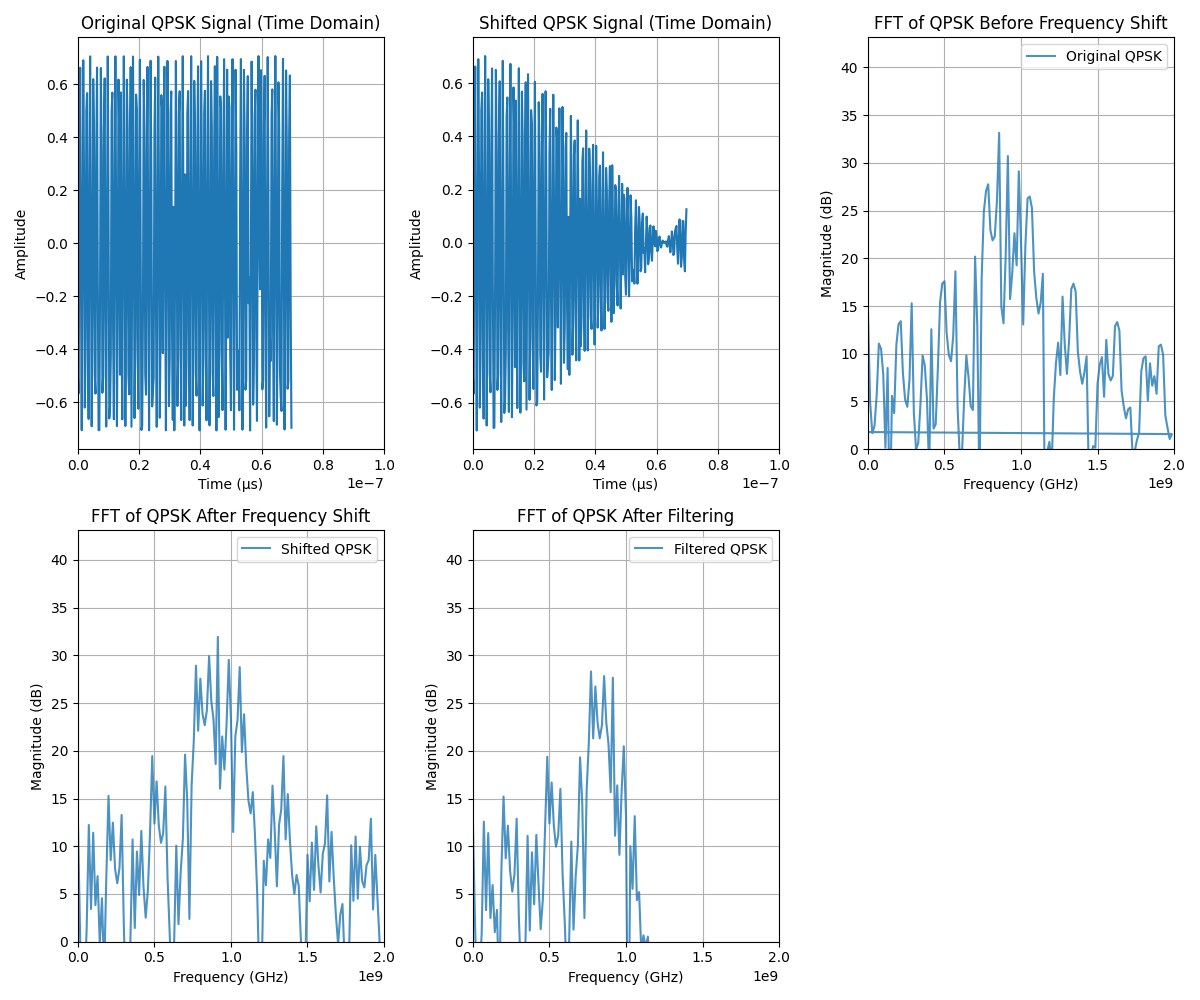
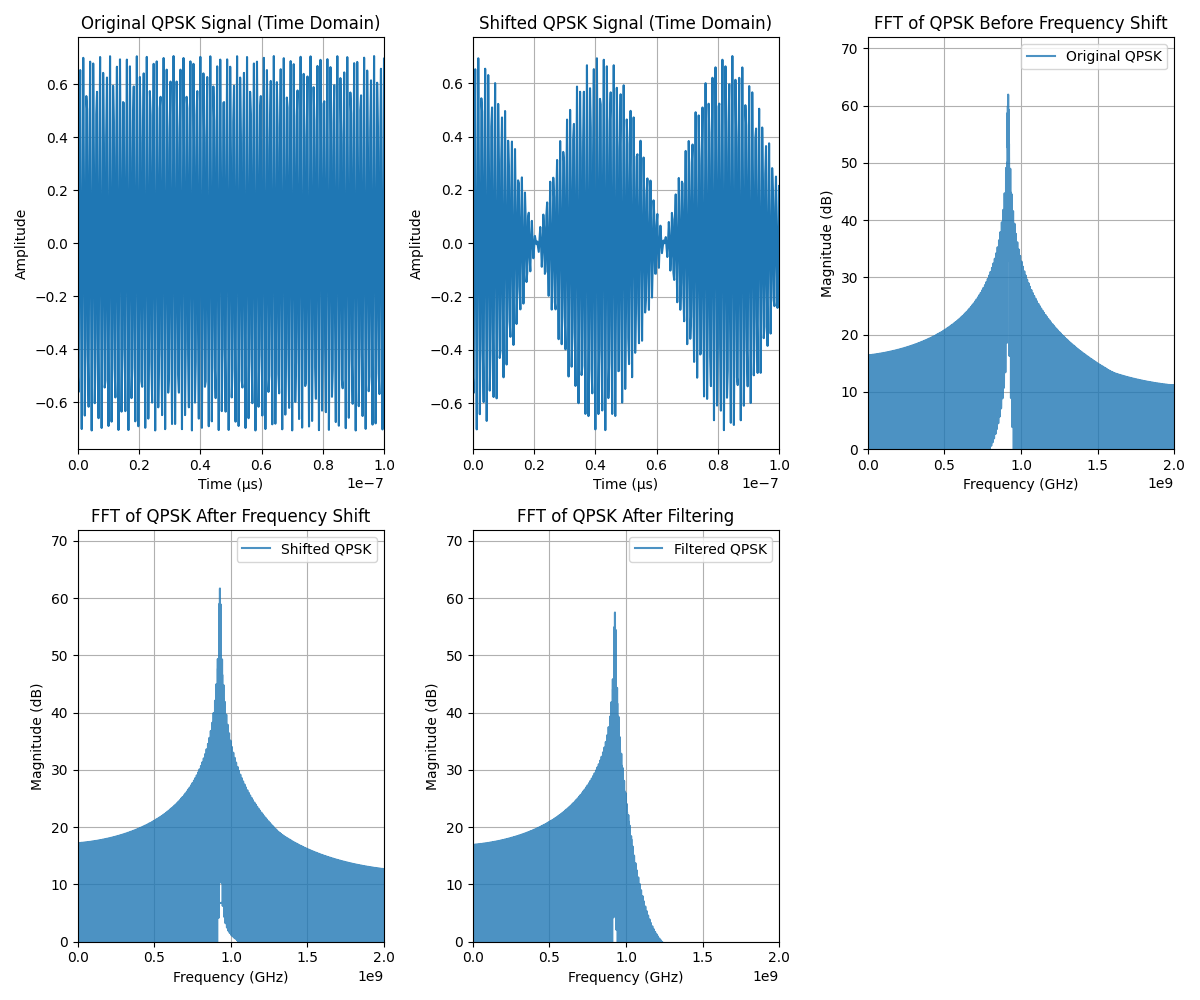
changes in main

diff --git a/Phys_Sim/main.py b/Phys_Sim/main.py
@@ -16,66 +16,6 @@ noise_bool = False  # Global variable to control noise addition
 noise_power = 0.1  # Default noise power
 message_input = None  # Global variable to store the message input field
 
-def plot_qpsk_sig_gen(message):
-    "this function plots 3 sections of the qpsk wave form in the time domain"
-    " and stores them into png files in the qpsk_sig_gen folder'"
-    global sig_gen
-    plt.figure(figsize=(15, 5))
-    plt.plot(sig_gen.time_vector, sig_gen.qpsk_waveform)
-    plt.ylim(-1/np.sqrt(2)*sig_gen.amp-.5, 1/np.sqrt(2)*sig_gen.amp+.5)
-
-    #if there are more than 10 symbols only show the first ten symbols
-    if len(sig_gen.time_vertical_lines) > 10:
-        plt.xlim(0, 10/sig_gen.symbol_rate)  # Show first 10 symbol periods
-    #if not don't touch the xlim
-
-    for lines in sig_gen.time_vertical_lines:
-        #add vertical lines at the symbol boundaries
-        if len(sig_gen.time_vertical_lines) > 10:
-            if lines < 9/sig_gen.symbol_rate:
-                plt.axvline(x=lines, color='black', linestyle='--', linewidth=1)
-
-                #add annotation for the symbol e.g. '00', '01', '10', '11'
-                # Reverse mapping: symbol -> binary pair
-                symbol = sig_gen.symbols[sig_gen.time_vertical_lines.index(lines)]
-                # Reverse the mapping to get binary pair from symbol
-                reverse_mapping = {v: k for k, v in sig_gen.mapping.items()}
-                binary_pair = reverse_mapping.get(symbol, '')
-                formatted_pair =str(binary_pair).replace("(", "").replace(")", "").replace(", ", "")
-                #debug
-                #print(formatted_pair)
-                x_dist = 1 / (2.7 * sig_gen.symbol_rate) #half the symbol period 
-                y_dist = 0.707*sig_gen.amp + .2 # 0.807 is the amplitude of the QPSK waveform
-                plt.annotate(formatted_pair, xy=(lines, 0), xytext=(lines + x_dist, y_dist), fontsize=17)  
-        else:
-            if lines < len(sig_gen.time_vector):
-                plt.axvline(x=lines, color='black', linestyle='--', linewidth=1)
-
-                #add annotation for the symbol e.g. '00', '01', '10', '11'
-                # Reverse mapping: symbol -> binary pair
-                symbol = sig_gen.symbols[sig_gen.time_vertical_lines.index(lines)]
-                # Reverse the mapping to get binary pair from symbol
-                reverse_mapping = {v: k for k, v in sig_gen.mapping.items()}
-                binary_pair = reverse_mapping.get(symbol, '')
-                formatted_pair =str(binary_pair).replace("(", "").replace(")", "").replace(", ", "")
-                #debug
-                #print(formatted_pair)
-                x_dist = 1 / (2.7 * sig_gen.symbol_rate) #half the symbol period 
-                y_dist = 0.707*sig_gen.amp + .2 # 0.807 is the amplitude of the QPSK waveform
-                plt.annotate(formatted_pair, xy=(lines, 0), xytext=(lines + x_dist, y_dist), fontsize=17)
-            
-    if len(sig_gen.time_vertical_lines) > 10:
-        plt.title(f'QPSK Waveform for \"{message}\" (first 10 symbol periods)')
-    else:
-        plt.title(f'QPSK Waveform for \"{message}\"')
-    plt.xlabel('Time (s)')
-    plt.ylabel('Amplitude')
-    plt.grid()
-    # Save the plot to a file
-    plt.savefig(f'qpsk_sig_gen/1_qpsk_waveform.png', dpi=300)    
-    #print("Debug: plot generated")
-    return
-
 
 
 #front page
@@ -136,15 +76,10 @@ def simulate_page():
                     global receiver
                     global repeater
                     global message_input
-                    sig_gen.freq = int(freq_in_slider.value)* 1e6  # Convert MHz to Hz
-                    #sig_gen.sample_rate = 20 * sig_gen.freq  # Example sample rate 20 times the frequency
-                    sig_gen.symbol_rate = 0.1 * sig_gen.freq  # Example symbol rate 30% of the frequency
                     message_input = message.value
-                    #save graphs:
-                    #run the method to generate the QPSK waveform
-                    sig_gen.generate_qpsk(sig_gen.message_to_bits(message_input))
-                    plot_qpsk_sig_gen(message_input)
-                    
+                    #run the sig gen handler
+                    sig_gen.handler(message.value, int(freq_in_slider.value)*1e6) 
+
                     repeater.desired_freqeuncy = int(freq_out_slider.value) * 1e6
                     #repeater.sampling_fequency = int(sig_gen.sample_rate)
                     repeater.gain = 10**(int(gain_slider.value)/10) # convert dB to linear scale
@@ -219,8 +154,9 @@ def signal_generator_page():
             ui.html(f'''<div style ="font-size: 1.5em; font-weight: bold; color: #D2042D; text-wrap:wrap; word-break: break-all;"><span style = 'color:#0072BD'>{marker}</span> | <span style = 'color:black; '>{payload}</span></div>''').style('text-align: center;')
 
             #need to insure we get the most up to date image that's why we use .force_reload()
-            ui.image('qpsk_sig_gen/1_qpsk_waveform.png').style('width: 70%; height: auto;').force_reload()
 #simulation Repeater page
+            ui.image('qpsk_sig_gen/1_qpsk_waveform.png').style('width: 70%; height: auto;').force_reload()
+            ui.image('qpsk_sig_gen/2_qpsk_waveform.png').style('width: 70%; height: auto;').force_reload()
 @ui.page('/repeater_page')
 def repeater_page():
 

diff --git a/Phys_Sim/Sig_Gen.py b/Phys_Sim/Sig_Gen.py
@@ -91,3 +91,90 @@ class SigGen:
         # Convert string input to list of integers
         bit_sequence = [int(bit) for bit in message_binary.strip()]
         return bit_sequence
+
+    def plot_time_png(self,message):
+        "this function plots 3 sections of the qpsk wave form in the time domain"
+        " and stores them into png files in the qpsk_sig_gen folder'"
+        import matplotlib.pyplot as plt
+        import numpy as np
+        plt.figure(figsize=(15, 5))
+        plt.plot(self.time_vector, self.qpsk_waveform)
+        plt.ylim(-1/np.sqrt(2)*self.amp-.5, 1/np.sqrt(2)*self.amp+.5)
+
+        #if there are more than 10 symbols only show the first ten symbols
+        if len(self.time_vertical_lines) > 10:
+            plt.xlim(0, 10/self.symbol_rate)  # Show first 10 symbol periods
+        #if not don't touch the xlim
+
+        for lines in self.time_vertical_lines:
+            #add vertical lines at the symbol boundaries
+            if len(self.time_vertical_lines) > 10:
+                if lines < 9/self.symbol_rate:
+                    plt.axvline(x=lines, color='black', linestyle='--', linewidth=1)
+
+                    #add annotation for the symbol e.g. '00', '01', '10', '11'
+                    # Reverse mapping: symbol -> binary pair
+                    symbol = self.symbols[self.time_vertical_lines.index(lines)]
+                    # Reverse the mapping to get binary pair from symbol
+                    reverse_mapping = {v: k for k, v in self.mapping.items()}
+                    binary_pair = reverse_mapping.get(symbol, '')
+                    formatted_pair =str(binary_pair).replace("(", "").replace(")", "").replace(", ", "")
+                    #debug
+                    #print(formatted_pair)
+                    x_dist = 1 / (2.7 * self.symbol_rate) #half the symbol period 
+                    y_dist = 0.707*self.amp + .2 # 0.807 is the amplitude of the QPSK waveform
+                    plt.annotate(formatted_pair, xy=(lines, 0), xytext=(lines + x_dist, y_dist), fontsize=17)  
+            else:
+                if lines < len(self.time_vector):
+                    plt.axvline(x=lines, color='black', linestyle='--', linewidth=1)
+
+                    #add annotation for the symbol e.g. '00', '01', '10', '11'
+                    # Reverse mapping: symbol -> binary pair
+                    symbol = self.symbols[self.time_vertical_lines.index(lines)]
+                    # Reverse the mapping to get binary pair from symbol
+                    reverse_mapping = {v: k for k, v in self.mapping.items()}
+                    binary_pair = reverse_mapping.get(symbol, '')
+                    formatted_pair =str(binary_pair).replace("(", "").replace(")", "").replace(", ", "")
+                    #debug
+                    #print(formatted_pair)
+                    x_dist = 1 / (2.7 * self.symbol_rate) #half the symbol period 
+                    y_dist = 0.707*self.amp + .2 # 0.807 is the amplitude of the QPSK waveform
+                    plt.annotate(formatted_pair, xy=(lines, 0), xytext=(lines + x_dist, y_dist), fontsize=17)
+                
+        if len(self.time_vertical_lines) > 10:
+            plt.title(f'QPSK Waveform for \"{message}\" (first 10 symbol periods)')
+        else:
+            plt.title(f'QPSK Waveform for \"{message}\"')
+        plt.xlabel('Time (s)')
+        plt.ylabel('Amplitude')
+        plt.grid()
+        # Save the plot to a file
+        plt.savefig(f'qpsk_sig_gen/1_qpsk_waveform.png', dpi=300)    
+        #print("Debug: plot generated")
+        return
+    
+    def plot_freq_png(self):
+        #same figure size as above
+        import matplotlib.pyplot as plt
+        import numpy as np
+        n = len(self.time_vector)
+        freqs = np.fft.fftfreq(n, d=1/self.sample_rate)
+        # FFT of original and shifted signals
+        fft = np.fft.fft(self.qpsk_waveform)
+        fft_db = 20 * np.log10(np.abs(fft))
+        # get fft of qpsk signal
+        
+        plt.figure(figsize=(15, 5))
+        plt.plot(freqs,fft_db)
+        plt.title("FFT of QPSK signal")
+        plt.xlim(0, 1000e6)
+        plt.ylim(0, np.max(fft_db)+10)
+        #save plot
+        plt.savefig(f'qpsk_sig_gen/2_qpsk_waveform.png', dpi = 300)
+
+    def handler(self,message, frequency):
+        self.freq = frequency
+        self.symbol_rate = .01*frequency
+        self.generate_qpsk(self.message_to_bits(message))
+        self.plot_time_png(message)
+        self.plot_freq_png()
